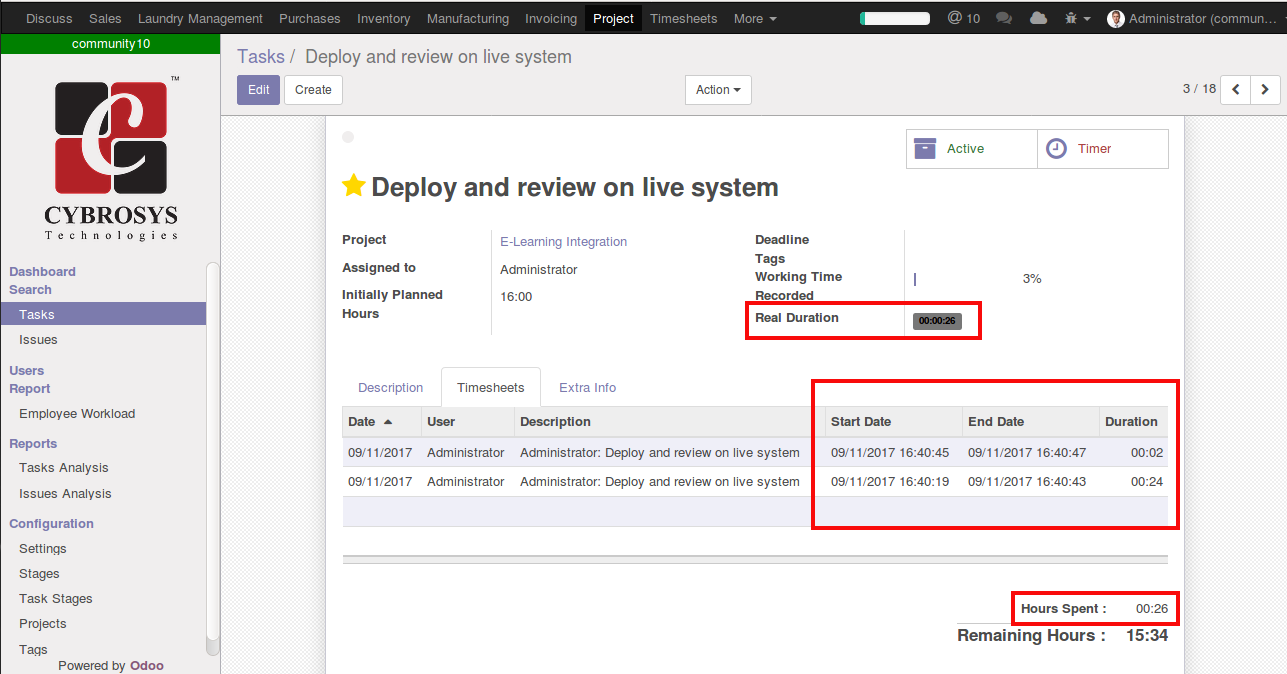
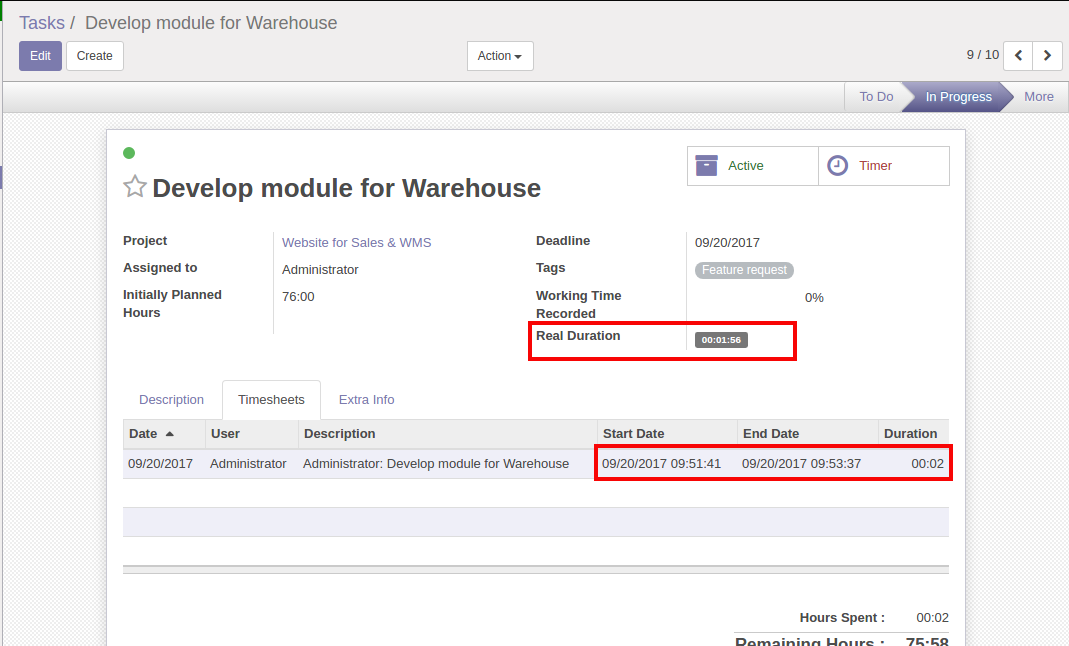
[UPDT] Timer Unit changed to minutes & Version controlling doc added

diff --git a/project_task_timer/models/project_task_timer.py b/project_task_timer/models/project_task_timer.py
@@ -29,6 +29,7 @@ class ProjectTaskTimeSheet(models.Model):
 
     date_start = fields.Datetime(string='Start Date')
     date_end = fields.Datetime(string='End Date', readonly=1)
+    timer_duration = fields.Float(invisible=1)
 
 
 class ProjectTaskTimer(models.Model):
@@ -43,11 +44,11 @@ class ProjectTaskTimer(models.Model):
                 order.is_user_working = False
 
     @api.multi
-    @api.depends('timesheet_ids.unit_amount')
+    @api.depends('timesheet_ids.timer_duration')
     def _compute_duration(self):
         self.duration = 0
         for each in self:
-            each.duration = sum(each.timesheet_ids.mapped('unit_amount'))
+            each.duration = sum(each.timesheet_ids.mapped('timer_duration'))
 
     @api.multi
     def toggle_start(self):
@@ -73,9 +74,11 @@ class ProjectTaskTimer(models.Model):
                 if time_line.date_end:
                     diff = fields.Datetime.from_string(time_line.date_end) - fields.Datetime.from_string(
                         time_line.date_start)
-                    time_line.unit_amount = round(diff.total_seconds() / 60.0, 2)
+                    time_line.timer_duration = round(diff.total_seconds() / 60.0, 2)
+                    time_line.unit_amount = round(diff.total_seconds() / (60.0 * 60.0), 2)
                 else:
                     time_line.unit_amount = 0.0
+                    time_line.timer_duration = 0.0
 
     task_timer = fields.Boolean()
     is_user_working = fields.Boolean(

diff --git a/project_task_timer/__manifest__.py b/project_task_timer/__manifest__.py
@@ -22,7 +22,7 @@
 ##############################################################################
 {
     'name': 'Project Task Timer',
-    'version': '10.0.1.0',
+    'version': '10.0.2.0',
     'summary': """Task Timer With Start & Stop""",
     'description': """"This module helps you to track time sheet in project automatically.""",
     'category': 'Project',

diff --git a/project_task_timer/doc/changelog.rst b/project_task_timer/doc/changelog.rst
@@ -1,0 +1,8 @@
+Changelog
+=========
+* Jesni Banu        contact: jesni@cybrosys.in
+
+`10.0.2.0.0`
+------------
+- Timer unit changed to minutes (To compact time sheet).
+
